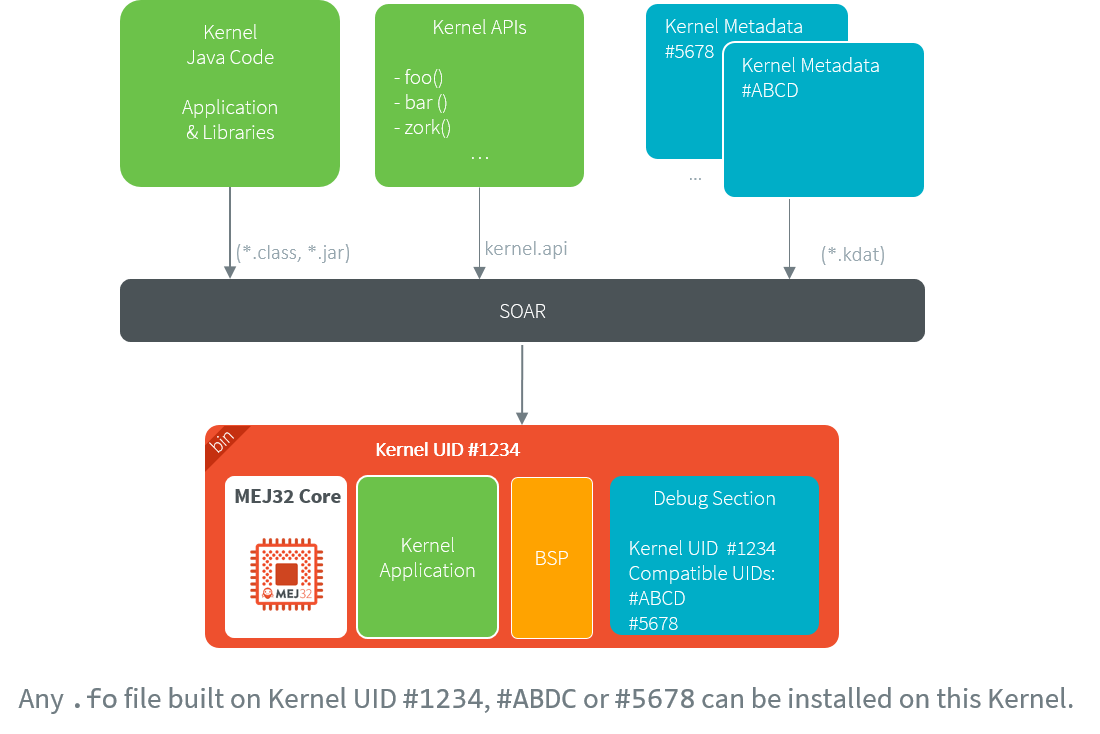
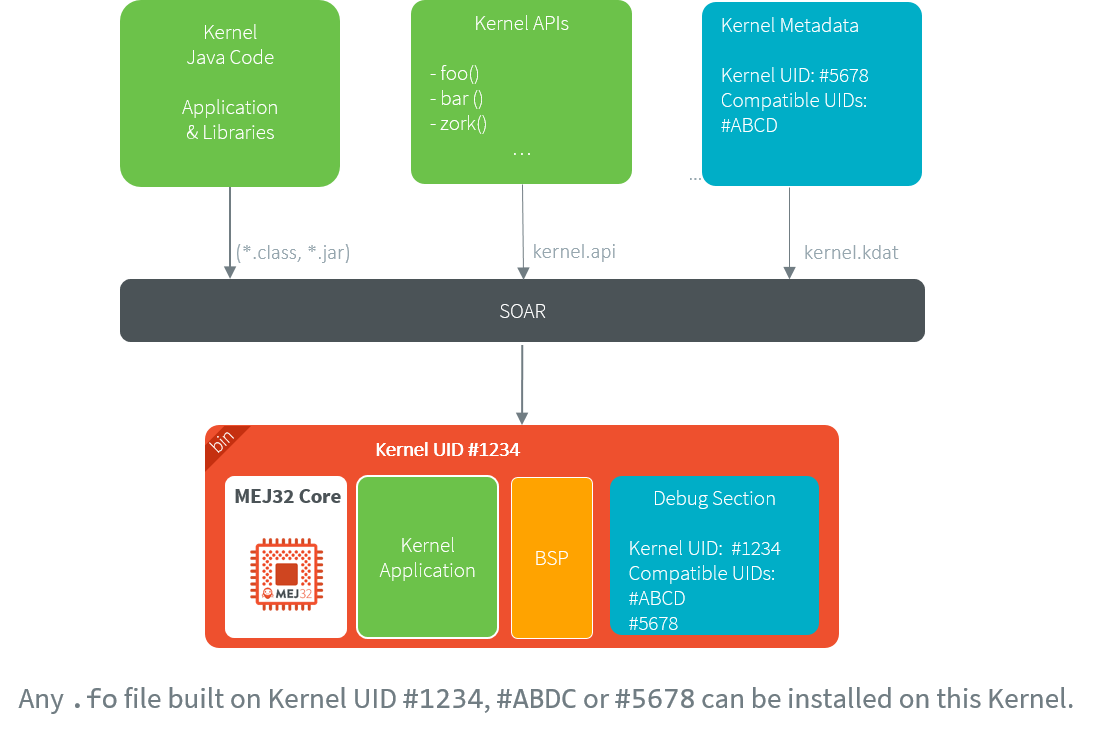
fix chained link of kdat files

diff --git a/KernelDeveloperGuide/kernelLink.rst b/KernelDeveloperGuide/kernelLink.rst
@@ -116,13 +116,12 @@ Enable
 
 .. note::
 
-   This is a new functionality that requires a custom Architecture configuration.
-   Please contact :ref:`our support team <get_support>` for more details.
+   This is a new functionality that requires Architecture :ref:`8.0.0 <changelog-8.0.0>` or higher.
 
 Add the following :ref:`Application Options <application_options>` to your Kernel project:
 
 - ``com.microej.soar.kernel.featureportabilitycontrol.enabled``: ``true`` to enable Feature Portability Control. Any other value disables Feature Portability Control (the following option is ignored).
-- ``com.microej.soar.kernel.featureportabilitycontrol.metadata.path``: OS path-separated list of Kernel Metadata files (``*.kdat`` files).
+- ``com.microej.soar.kernel.featureportabilitycontrol.metadata.path``: Path to the Kernel Metadata file (``.kdat`` file).
 
 Portability Rules
 ~~~~~~~~~~~~~~~~~
